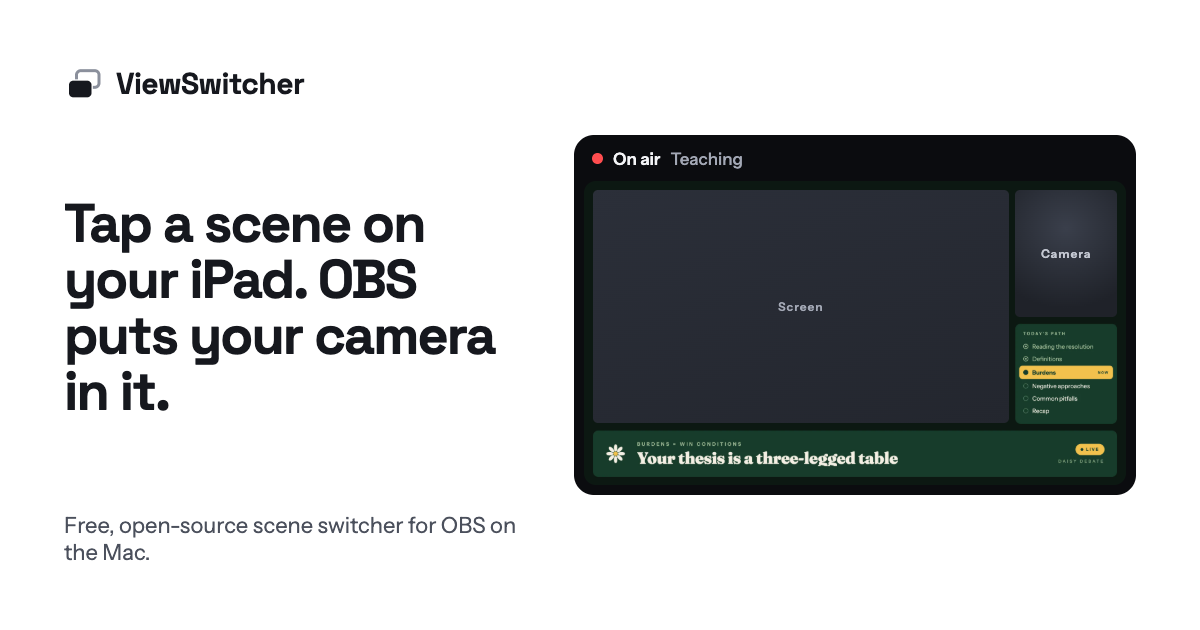
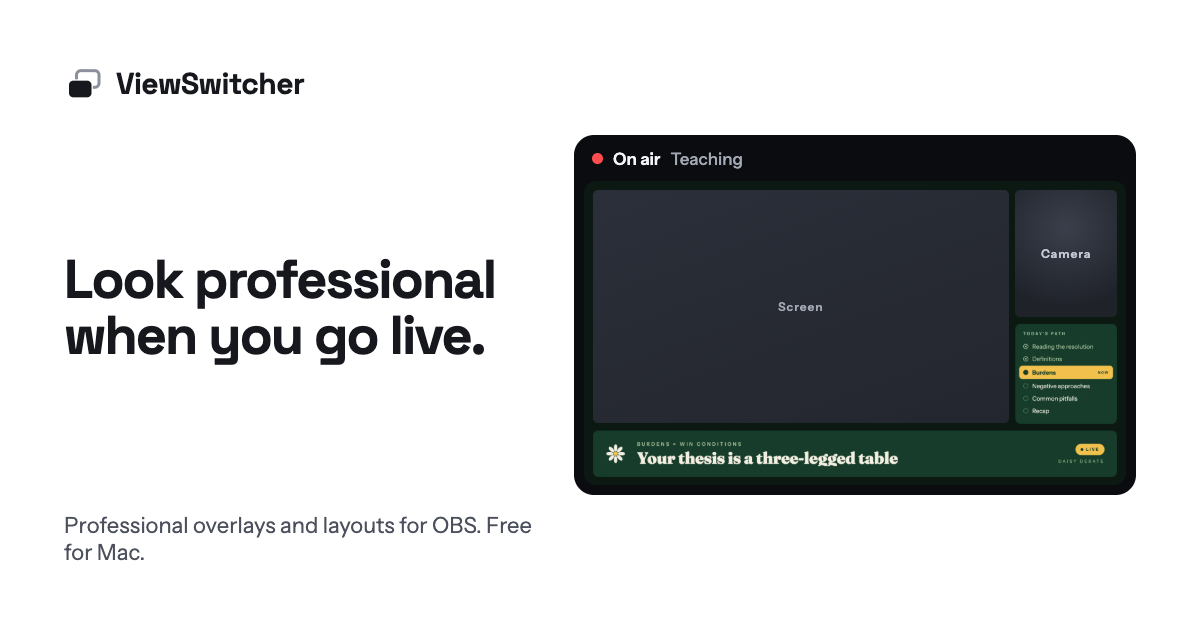
feat(site): v2 copy and structure for non-technical streamers (SITE-12 · SITE-13 · SITE-15 · SITE-16)
The v1 page sold the mechanism (agent-written HTML, the iPad) to developers.
This rewrites the copy to sell the outcome to people who go live:

- SITE-12: hero says "Look professional when you go live." with the OBS
  overlays-and-layouts subhead; no HTML, agents or iPad.
- SITE-13: how it works is pick your views / click to switch / everything
  moves into place.
- SITE-14 (structure only): an examples section led by "Don't be the only one
  live without a professional look." with four made-up shows; rendered views
  replace the placeholder cards in a later commit. Audience (real orgs) removed.
- SITE-15: features grouped as Make it yours / Run the show, AI as one optional
  line; FAQ rewritten for non-technical people.
- SITE-16: download leads with Download for Mac and what you need; running from
  source moves into a collapsed Developers note.
- CTA: before MAC-8 the primary button is "Follow the Mac app" (GitHub
  releases, which emails watchers) instead of "Get it on GitHub".
- OG card and meta use the new headline.
- cookie added as a devDependency: astro's prerender step otherwise resolved a
  stray cookie@0.7 from a parent node_modules and the build failed locally.

Changed region(s): [[0.0308, 0.3016, 0.4317, 0.6635], [0.0617, 0.8143, 0.4625, 0.9048]]

diff --git a/apps/site/src/lib/cta.ts b/apps/site/src/lib/cta.ts
@@ -1,12 +1,16 @@
 // The site's call to action. Pure: the page passes in the config.
 export type Link = { label: string; href: string };
-export type Ctas = { state: "github" | "download"; primary: Link; secondary: Link };
+export type Ctas = { state: "soon" | "download"; primary: Link; note: string };
 
+/**
+ * Before the Mac app ships there is nothing to download, so the honest, least technical step is
+ * to follow its releases (GitHub emails a watcher when one is published). After MAC-8 it's the dmg.
+ */
 export function ctas(opts: { macAppReleased: boolean; repo: string; dmgUrl: string }): Ctas {
-  const github = `https://github.com/${opts.repo}`;
+  const releases = `https://github.com/${opts.repo}/releases`;
   return opts.macAppReleased
-    ? { state: "download", primary: { label: "Download for Mac", href: opts.dmgUrl }, secondary: { label: "View on GitHub", href: github } }
-    : { state: "github", primary: { label: "Get it on GitHub", href: github }, secondary: { label: "Watch releases", href: `${github}/releases` } };
+    ? { state: "download", primary: { label: "Download for Mac", href: opts.dmgUrl }, note: "Free and open source. For macOS, with OBS." }
+    : { state: "soon", primary: { label: "Follow the Mac app", href: releases }, note: "Free and open source. The Mac app is in testing; follow it to hear when it's out." };
 }
 
 /** The config value, unless an override (e.g. SITE_MAC_APP on a preview build) says otherwise. */

diff --git a/apps/site/src/lib/cta.test.ts b/apps/site/src/lib/cta.test.ts
@@ -5,17 +5,15 @@ const repo = "2witstudios/viewswitcher";
 const dmg = "https://github.com/2witstudios/viewswitcher/releases/latest/download/ViewSwitcher.dmg";
 
 describe("ctas", () => {
-  test("before the Mac app ships, the primary action is GitHub and the secondary is watching releases", () => {
+  test("before the Mac app ships, the primary action follows its releases on GitHub", () => {
     const c = ctas({ macAppReleased: false, repo, dmgUrl: dmg });
-    expect(c.primary).toEqual({ label: "Get it on GitHub", href: "https://github.com/2witstudios/viewswitcher" });
-    expect(c.secondary).toEqual({ label: "Watch releases", href: "https://github.com/2witstudios/viewswitcher/releases" });
-    expect(c.state).toBe("github");
+    expect(c.primary).toEqual({ label: "Follow the Mac app", href: "https://github.com/2witstudios/viewswitcher/releases" });
+    expect(c.state).toBe("soon");
   });
 
-  test("after the Mac app ships, the primary action downloads the latest dmg and GitHub is secondary", () => {
+  test("after the Mac app ships, the primary action downloads the latest dmg", () => {
     const c = ctas({ macAppReleased: true, repo, dmgUrl: dmg });
     expect(c.primary).toEqual({ label: "Download for Mac", href: dmg });
-    expect(c.secondary).toEqual({ label: "View on GitHub", href: "https://github.com/2witstudios/viewswitcher" });
     expect(c.state).toBe("download");
   });
 });

diff --git a/apps/site/scripts/og.ts b/apps/site/scripts/og.ts
@@ -49,8 +49,8 @@ p { font-size: 22px; color: #4b505c; }
 </style></head><body>
 <div class="copy">
   <div class="brand"><svg width="40" height="40" viewBox="0 0 24 24">${mark("#16181e", "#8b909c", "#ffffff")}</svg>ViewSwitcher</div>
-  <h1>Tap a scene on your iPad. OBS puts your camera in it.</h1>
-  <p>Free, open-source scene switcher for OBS on the Mac.</p>
+  <h1>Look professional when you go live.</h1>
+  <p>Professional overlays and layouts for OBS. Free for Mac.</p>
 </div>
 <div class="mon"><div class="bar"><span class="dot"></span>On air <span style="color:#a3a8b5;font-weight:500">Teaching</span></div><div class="frame">${devices}</div></div>
 </body></html>`;
